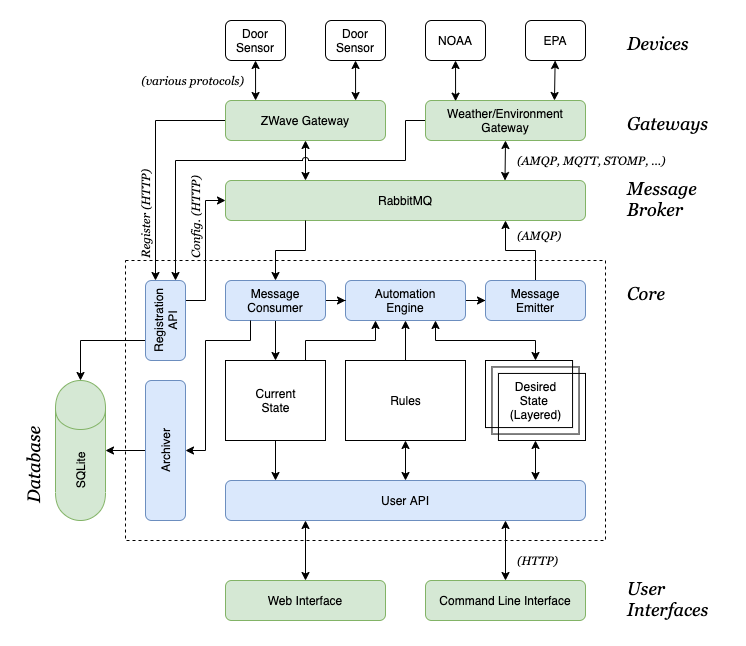
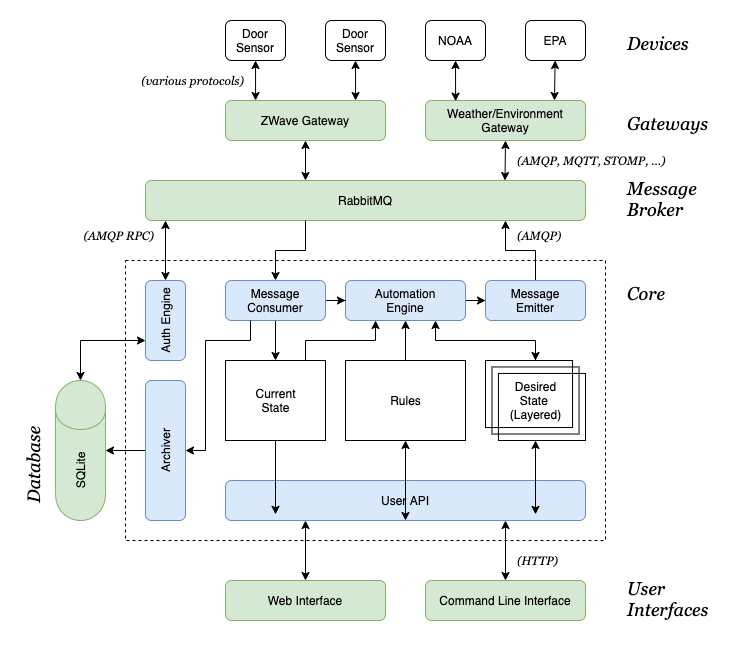
do gateway-core pairing via RabbitMQ instead of HTTP side channel

diff --git a/docs/1-core-broker-gateway-interface.md b/docs/1-core-broker-gateway-interface.md
@@ -15,7 +15,7 @@ The API will be versioned using three integers separated by decimal points. Usin
 Gateways need a way to gain authorization to connect to the message broker. 
 
 ```
-User                                 Core                                Gateway
+User                             Core/RabbitMQ                           Gateway
   |                                    |                                     |
 1.|<------------------- displays the unique device ID (e.g. serial number) --|
   |                                    |                                     |
@@ -23,13 +23,13 @@ User                                 Core                                Gateway
   |                                    |                                     |
 3.|<----- displays one time password --|                                     |
   |                                    |                                     |
-4.|-- enters one time password --------------------------------------------->|
+4.|-- enters one time password and url of RabbitMQ ------------------------->|
   |                                    |                                     |
-5.|                                    |<--- makes HTTP registration rqst. --|
+5.|                                    |<-------- makes registration rqst. --|
   |                                    |                                     |
-6.|                                    |-- returns credentials, URI's, &c -->|
+6.|                                    |-- returns credentials etc. -------->|
   |                                    |                                     |
-7.|                                    |<--------- connects to msg. broker --|
+7.|                                    |<------ connects using credentials --|
   |                                    |                                     |
   V                                    V                                     V  
   ```
@@ -40,13 +40,13 @@ User                                 Core                                Gateway
 
 3. The _core_ generates and displays a one time password.
 
-4. The _user_ enters the one time password into the _gateway_.
+4. The _user_ enters the one time password and RabbitMQ URL into the _gateway_.
 
-5. The _gateway_ makes a registration request via HTTP to the _core_'s registration API.
+5. The _gateway_ makes a registration request via RabbitMQ.
 
-6. The _core_ authenticates the one time password; returns credentials, URLs, etc.; and deletes the OTP. 
+6. The _core_ authenticates the one time password; returns credentials, etc.; and deletes the OTP. 
 
-7. The _gateway_ connects to the message broker.
+7. The _gateway_ connects to the RabbitMQ using its new credentials.
 
 ## Routine Date Exchange
 

diff --git a/TODO.md b/TODO.md
@@ -2,11 +2,10 @@
 
 A running list of things todo to keep me on track ...
 
-- [ ] build prototype registration api (HTTP)
-- [x] decide on database (SQLite https://github.com/mattn/go-sqlite3)
-- [ ] use database to store auths
-
 - [ ] set up RabbitMQ (docker or local? CLI config or HTTP API?)
-- [ ] add RabbitMQ topic creation to registration procedure
-
+- [x] decide on database (SQLite https://github.com/mattn/go-sqlite3)
+- [ ] configure database to store auths
+- [ ] build auth engine in core 
+- [ ] add RabbitMQ topic creation for each gateway to auth engine
 - [ ] design a format for data exchange between gateways and core (GraphQL-like?) Gateways need to declare their and their devices' interfaces to the core. Gateways need to send device state updates to the core. The core needs to send device state change requests to the Gatways. 
+- [ ] build out structs and DB schema for gateways, devices, and features.
